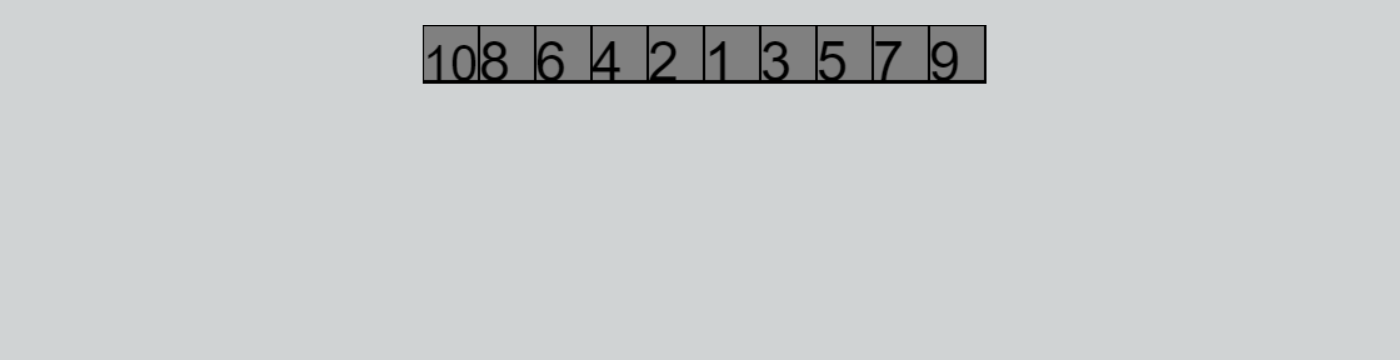
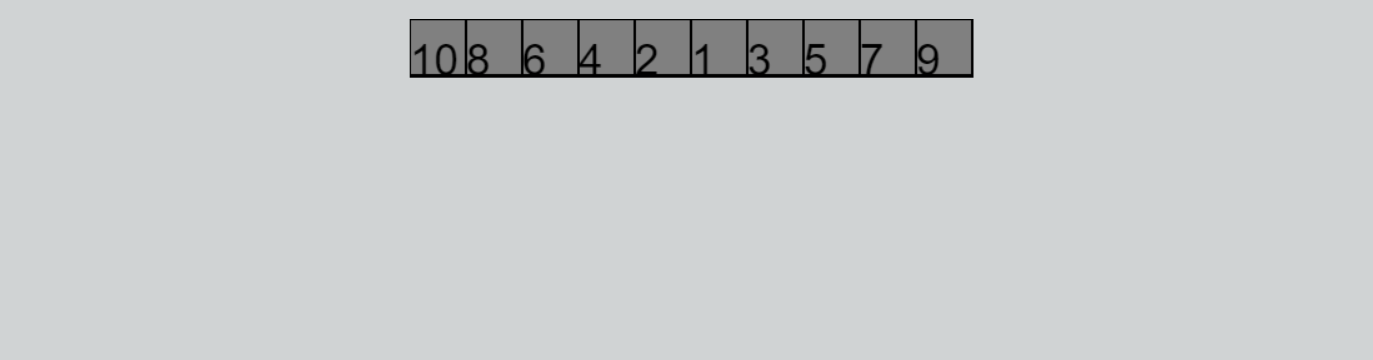
Added images to Sequential library

Changed region(s): [[0.2753, 0.0306, 0.7342, 0.2444]]

diff --git a/styles/wolframSQ.css b/styles/wolframSQ.css
@@ -336,8 +336,8 @@ ul {
   background-image: url("../images/Center_outward_reverse.png");
 }
 #edgesInwardR {
-  background-image: url("../images/Edges_inward.png");
+  background-image: url("../images/Edges_inward_reverse.png");
 }
 #nSkip {
-  background-image: url("../images/Edges_inward.png");
+  background-image: url("../images/Nskip.png");
 }
